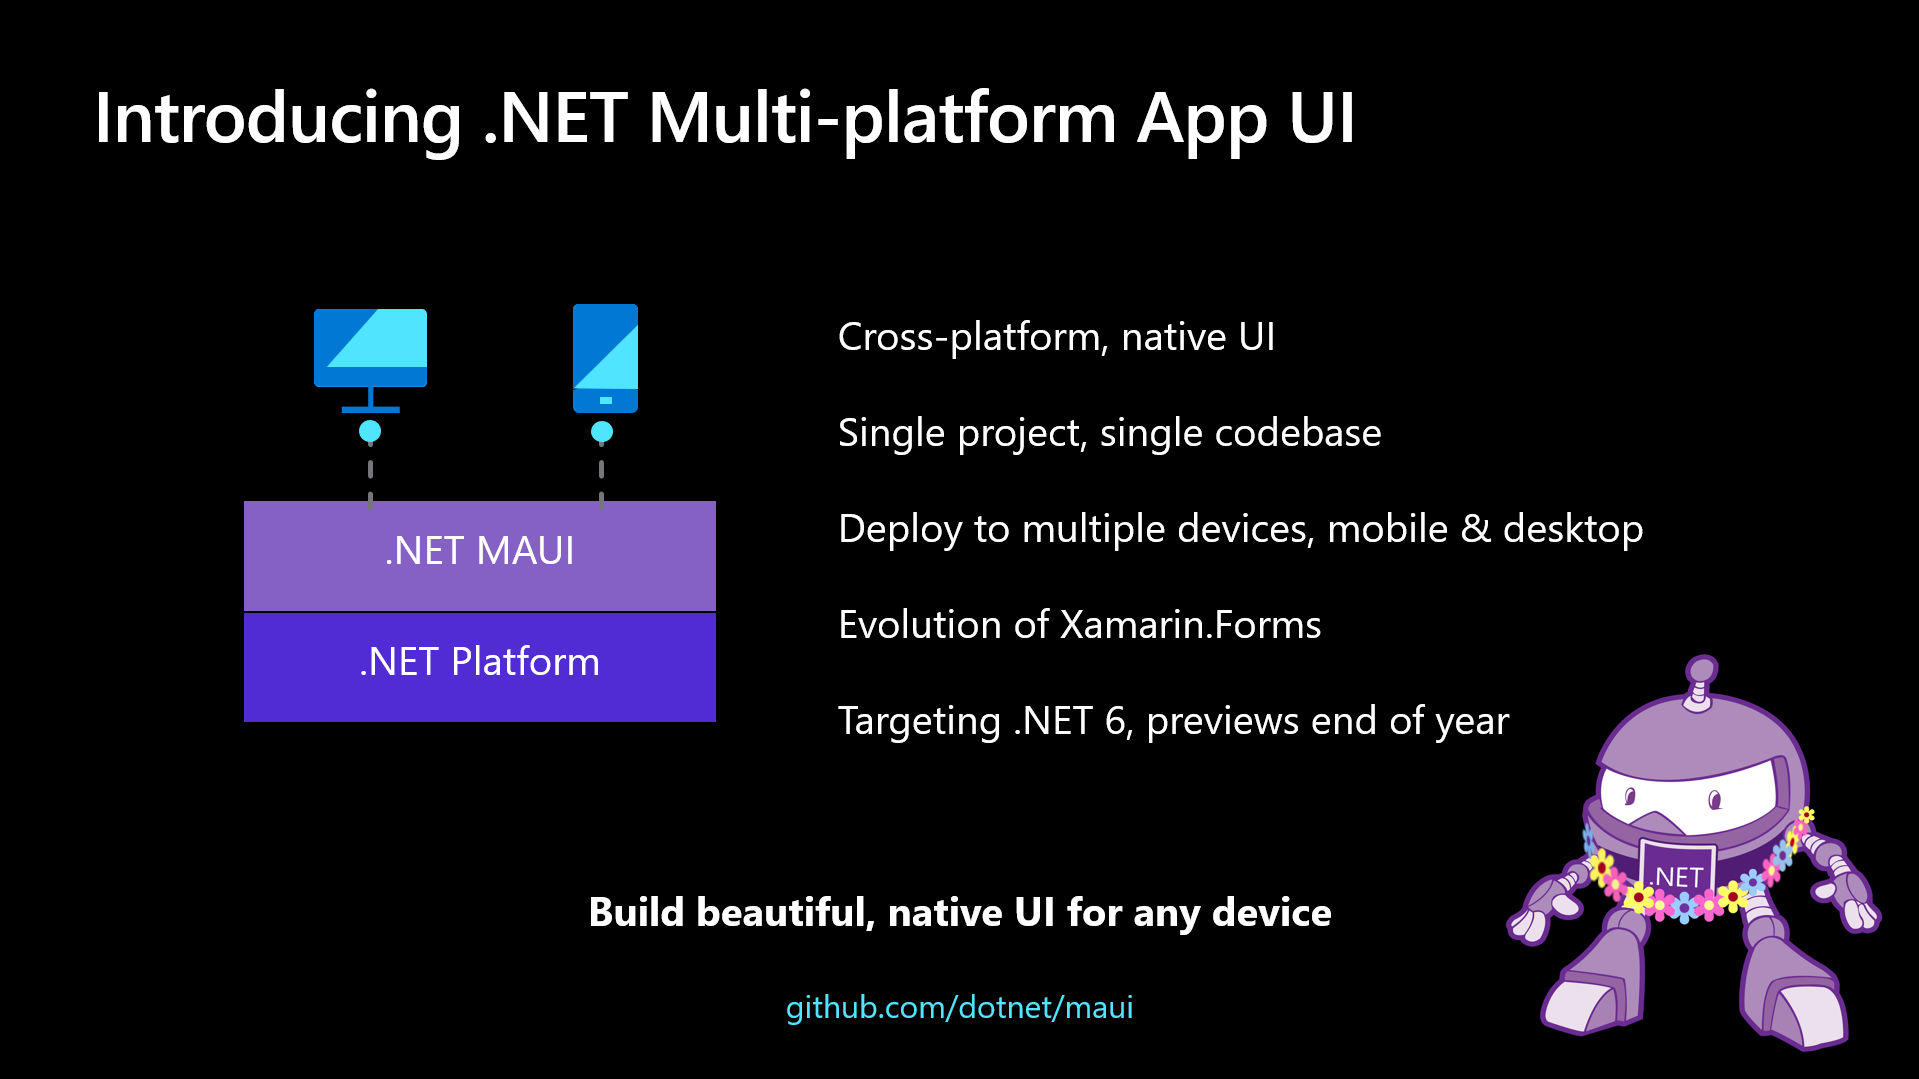
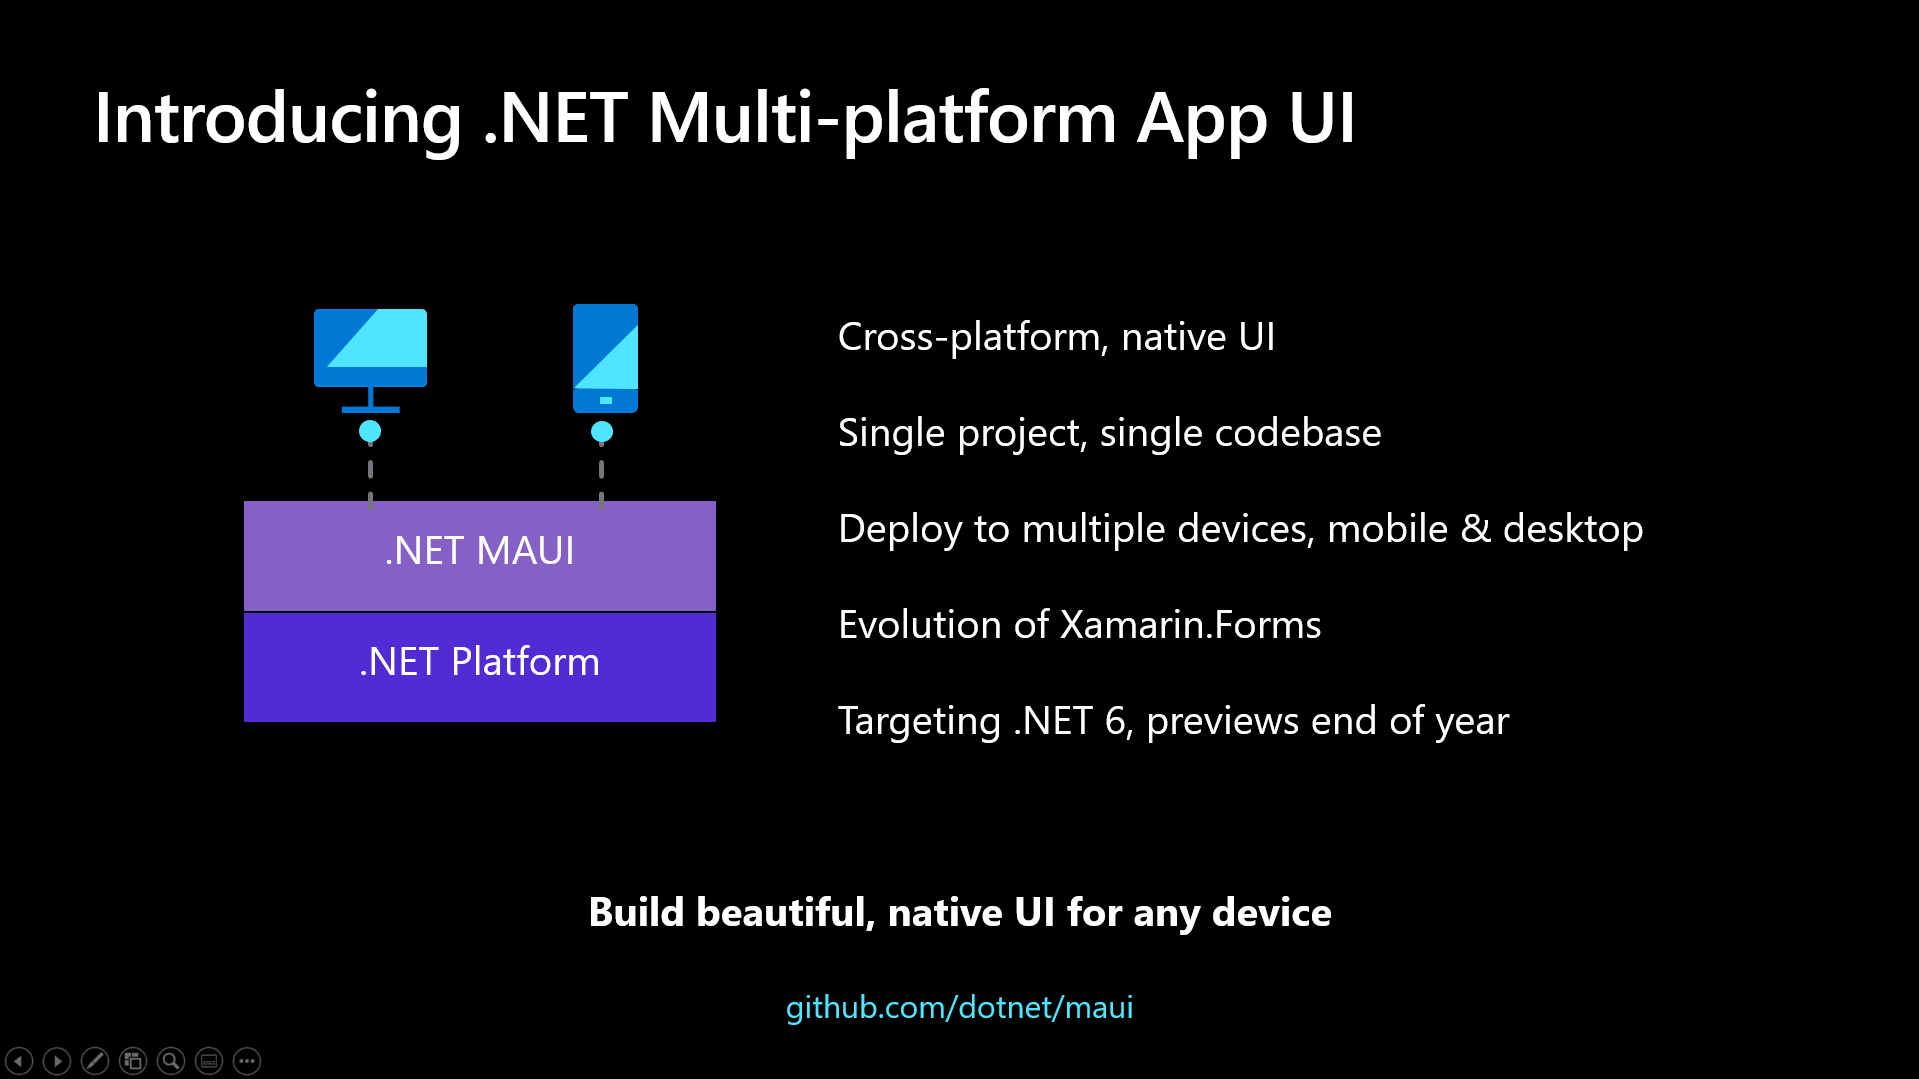
final edits for Beth

Changed region(s): [[0.7686, 0.6117, 0.9838, 0.9787], [0.0, 0.9787, 0.123, 1.0]]

diff --git a/2020/05-May/maui-announcement/introducing-dotnet-maui.md b/2020/05-May/maui-announcement/introducing-dotnet-maui.md
@@ -26,7 +26,7 @@ This delivers:
 * One location to manage resources such as fonts and images
 * Multi-targeting to organize your platform-specific code
 
-You master one way to build client apps, the MAUI way, and all platforms are within your reach. To see this in action, watch Scott Hunter's demo from Build, [The Journey to One .NET](https://aka.ms/Build2020AppDev-OneDotNet).
+You master one way to build client apps, the MAUI way, and all platforms are within your reach. Today, Scott Hunter will demo it in action at Build, [The Journey to One .NET](https://aka.ms/ScottBuildSessions).
 
 ## Modern App Patterns
 
@@ -78,13 +78,11 @@ View body() => new StackLayout
 };
 ```
 
-This pattern is ideally suited for hot reload as you can see from the demo [in this session](https://aka.ms/Build2020AppDev-DotNet) at Microsoft Build 2020. Now adding styling, gradients, fonts, and some love we show MVU in action with instant hot reload from C#.
+This pattern is ideally suited for hot reload as you can see below with added styling, gradients, and fonts with instant hot reload from C#.
 
 ![MAUI MVU](maui-mvu.gif)
 
 Both MVVM and MVU deliver the same native applications, performance, and platform fidelity. Developers will be able to choose which style best suits their preference and use case.
-
-For more information about MVU, the Elm architecture 
 
 ## Transitioning from Xamarin.Forms to .NET MAUI
 
